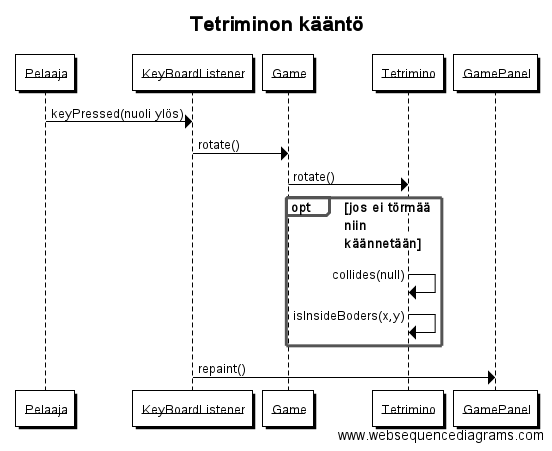
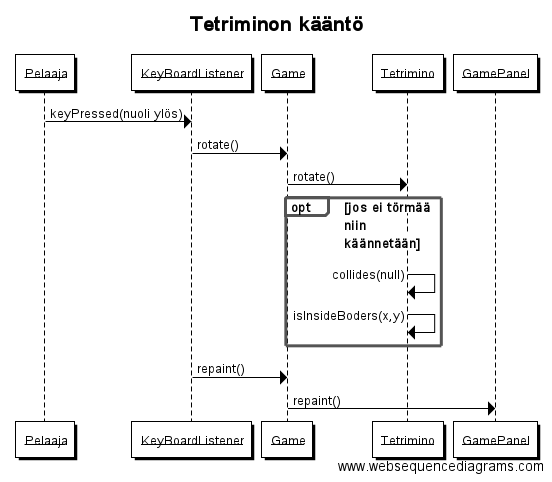
sekvenssikaavion korjaus

diff --git a/tetris/src/test/java/tetris/logic/TetriminoTest.java b/tetris/src/test/java/tetris/logic/TetriminoTest.java
@@ -16,6 +16,7 @@ import static org.junit.Assert.*;
  * @author inka
  */
 public class TetriminoTest {
+
     private Board b;
     private Tetrimino tetr;
     private Tetrimino i;
@@ -25,7 +26,7 @@ public class TetriminoTest {
     private Tetrimino s;
     private Tetrimino t;
     private Tetrimino z;
-    
+
     public TetriminoTest() {
     }
 
@@ -40,7 +41,7 @@ public class TetriminoTest {
         this.s = new Tetrimino(b, TetriminoType.S);
         this.t = new Tetrimino(b, TetriminoType.T);
         this.z = new Tetrimino(b, TetriminoType.Z);
-        
+
     }
 
     @After
@@ -51,65 +52,87 @@ public class TetriminoTest {
     public void testKonstruktoriAsettaaOikeatRotaatiotI() {
         assertTrue(this.i.getTetriminoRotations() == TetriminoType.I.getRotations());
     }
-    
+
     @Test
     public void testKonstruktoriAsettaaOikeatRotaatiotJ() {
         assertTrue(this.j.getTetriminoRotations() == TetriminoType.J.getRotations());
     }
-    
+
     @Test
     public void testKonstruktoriAsettaaOikeatRotaatiotL() {
         assertTrue(this.l.getTetriminoRotations() == TetriminoType.L.getRotations());
     }
-    
+
     @Test
     public void testKonstruktoriAsettaaOikeatRotaatiotO() {
         assertTrue(this.o.getTetriminoRotations() == TetriminoType.O.getRotations());
     }
-    
+
     @Test
     public void testKonstruktoriAsettaaOikeatRotaatiotS() {
         assertTrue(this.s.getTetriminoRotations() == TetriminoType.S.getRotations());
     }
-    
+
     @Test
     public void testKonstruktoriAsettaaOikeatRotaatiotT() {
         assertTrue(this.t.getTetriminoRotations() == TetriminoType.T.getRotations());
     }
-    
+
     @Test
     public void testKonstruktoriAsettaaOikeatRotaatiotZ() {
         assertTrue(this.z.getTetriminoRotations() == TetriminoType.Z.getRotations());
     }
+
     @Test
-     public void testTetriminoLiikkuuOikeinOikealle() {
-         this.tetr.moveRight();
-         assertEquals(b.getWidth()/2, tetr.getX());
-     }
-     
-     @Test
-     public void testTetriminoLiikkuuOikeinVasemmalle() {
-         tetr.moveLeft();
-         assertEquals(b.getWidth()/2-2, tetr.getX());
-     }
-     
-     @Test
-     public void testTetriminoLiikkuuOikeinAlas() {
-         tetr.moveDown();
-         assertEquals(1, tetr.getY());
-         
-     }
-     
-     @Test
-     public void testTetriminoPutoaaOikein() {
-         tetr.dropDown();
-         assertEquals(b.getHeight()-tetr.getCurrentRotation().length, this.tetr.getY());
-     }
-     
-     @Test
-     public void testTetriminoPyoriiOikein() {
-         int[][] next = tetr.getNextRotation();
-         tetr.rotate();
-         assertArrayEquals(next, tetr.getCurrentRotation());
-     }
+    public void testTetriminoLiikkuuOikeinOikealle() {
+        this.tetr.moveRight();
+        assertEquals(b.getWidth() / 2, tetr.getX());
+    }
+
+    @Test
+    public void testTetriminoLiikkuuOikeinVasemmalle() {
+        tetr.moveLeft();
+        assertEquals(b.getWidth() / 2 - 2, tetr.getX());
+    }
+
+    @Test
+    public void testTetriminoLiikkuuOikeinAlas() {
+        tetr.moveDown();
+        assertEquals(1, tetr.getY());
+
+    }
+
+    @Test
+    public void testTetriminoPutoaaOikein() {
+        tetr.dropDown();
+        assertEquals(b.getHeight() - tetr.getCurrentRotation().length, this.tetr.getY());
+    }
+
+    @Test
+    public void testTetriminoPyoriiOikein() {
+        int[][] next = tetr.getNextRotation();
+        tetr.rotate();
+        assertArrayEquals(next, tetr.getCurrentRotation());
+    }
+
+    @Test
+    public void testIsInsideBordersPalauttaaFalseKunPisteEiRajojenSisalla() {
+        assertFalse(t.isInsideBorders(-1, 1));
+        assertFalse(t.isInsideBorders(-1, -1));
+        assertFalse(t.isInsideBorders(11, 1));
+        assertFalse(t.isInsideBorders(11, 21));
+    }
+
+    @Test
+    public void testIsInsideBordersPalauttaaTrueKunPisteOnRajojenSisalla() {
+        assertTrue(t.isInsideBorders(1, 1));
+    }
+
+    @Test
+    public void testIsInsideBordersPalauttaaTrueKunPisteOnRajalla() {
+        assertTrue(t.isInsideBorders(0, 0));
+        assertTrue(t.isInsideBorders(9, 19));
+        assertTrue(t.isInsideBorders(9, 0));
+        assertTrue(t.isInsideBorders(0, 19));
+    }
 }

diff --git a/tetris/src/main/java/tetris/ui/GamePanel.java b/tetris/src/main/java/tetris/ui/GamePanel.java
@@ -34,6 +34,7 @@ public class GamePanel extends JPanel {
         paintBackground(g);
         paintBoard(g);
         paintTetrimino(g);
+        repaint();
     }
 
     private void paintBackground(Graphics g) {
@@ -79,8 +80,8 @@ public class GamePanel extends JPanel {
         g.fill3DRect(x * SQUARE_SIZE, y * SQUARE_SIZE, SQUARE_SIZE, SQUARE_SIZE, true);
     }
 
-    @Override
-    public void repaint() {
-        super.repaint();
-    }
+//    @Override
+//    public void repaint() {
+//        super.repaint();
+//    }
 }
